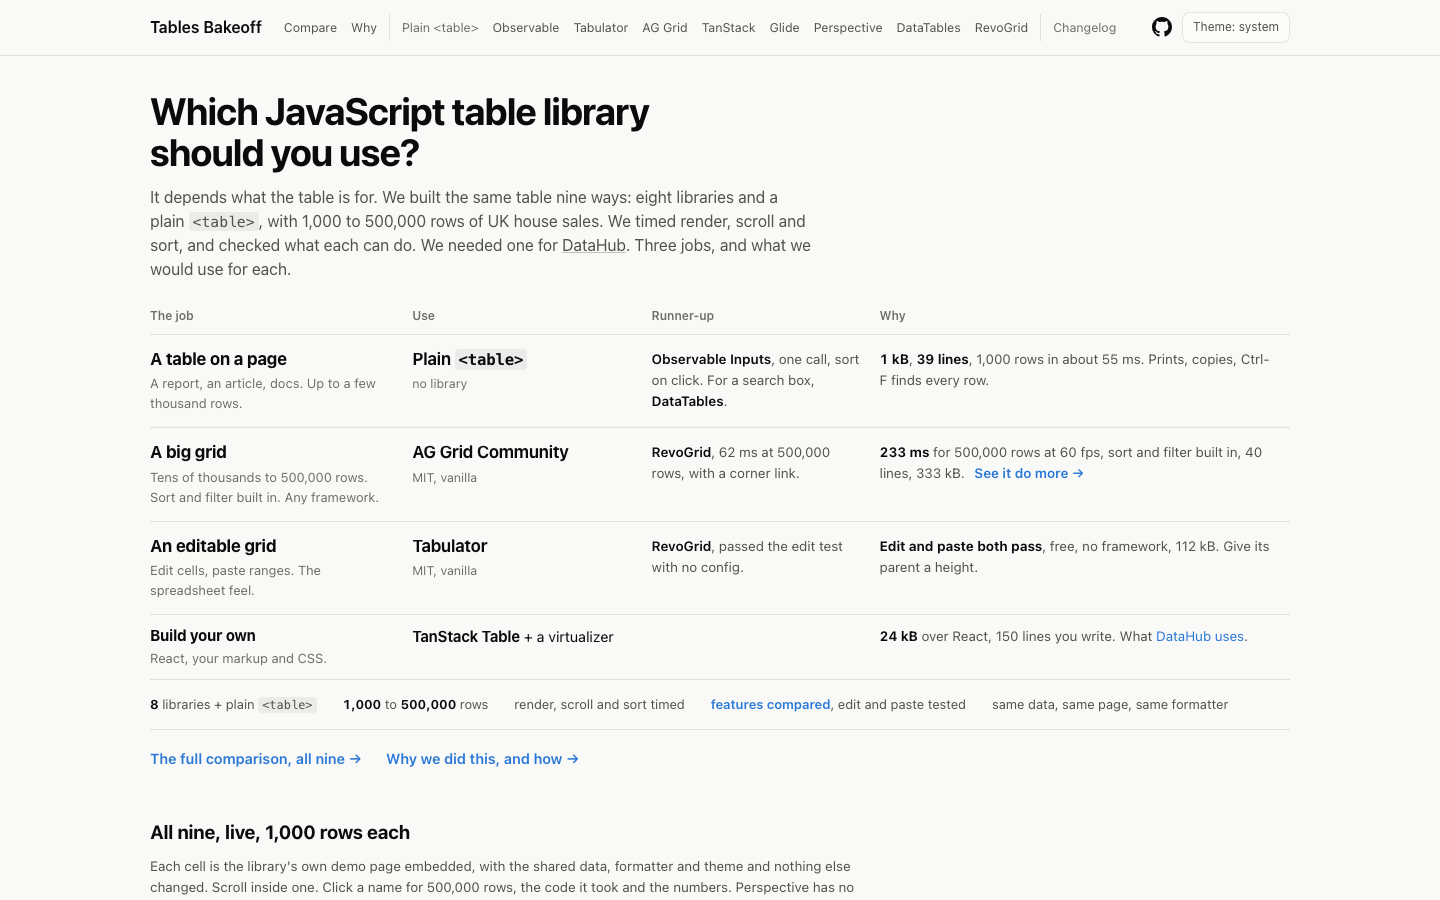
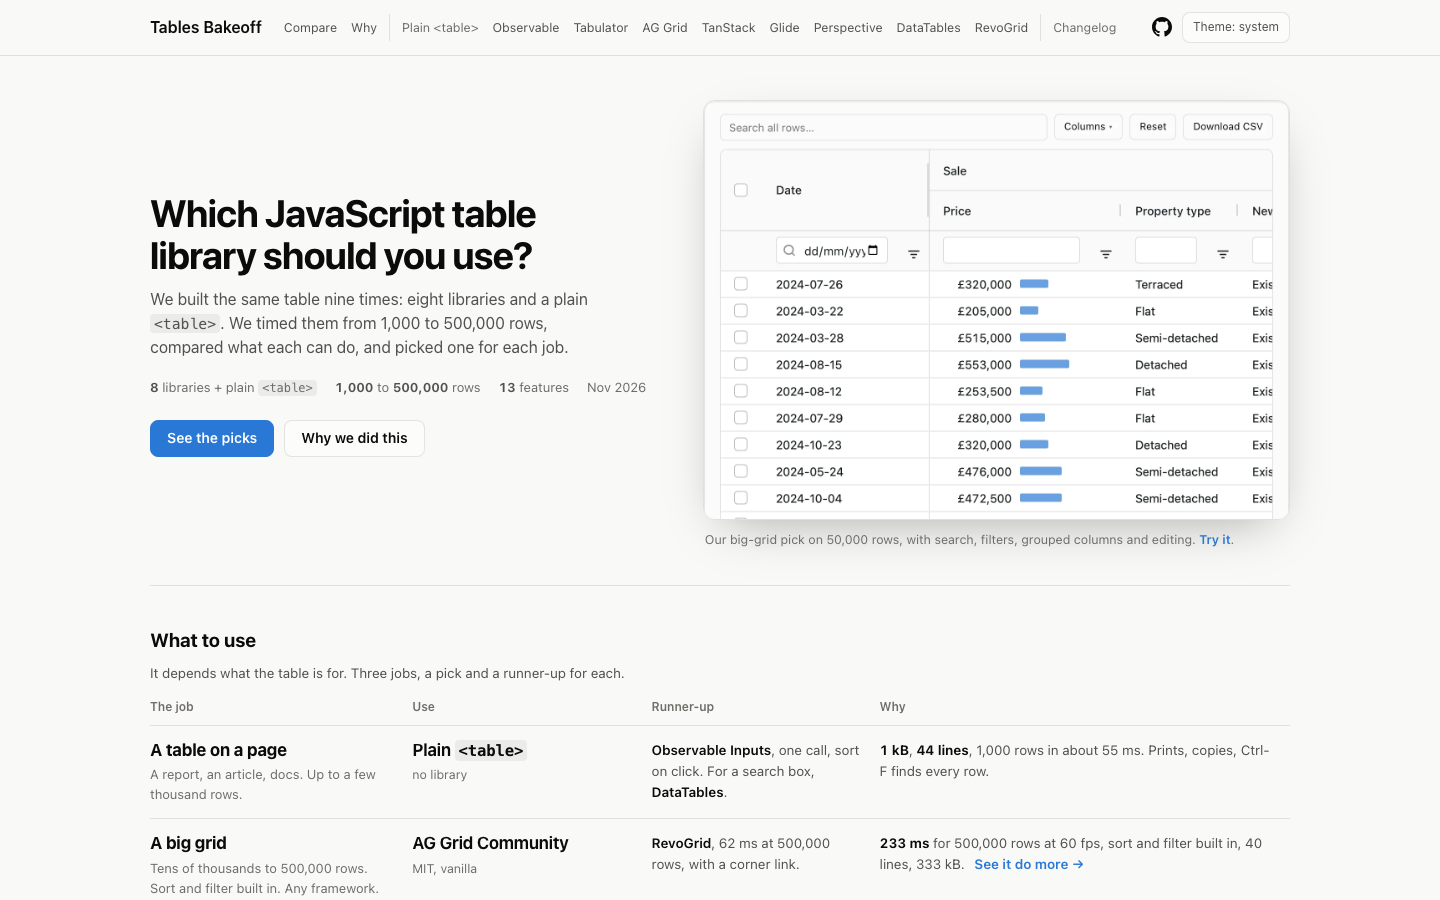
Front page: a hero that says what we did, beside a real grid
The first screen is now the question, two sentences on what we did, a
facts line, two buttons (See the picks, Why we did this) and a cropped
capture of the AG Grid showcase, light and dark, stacked on a phone. The
verdict table, facts strip and links move under a What to use heading
right after it. Nothing else on the page moves.

scripts/hero-image.mjs regenerates public/hero/hero-{light,dark}.webp at
2x from a running server (about 50 kB each, encoded by Chromium itself).
The OG card carries the same image on its right; scripts/render-og.mjs
inlines it.

diff --git a/src/harness/pages.css b/src/harness/pages.css
@@ -19,8 +19,38 @@ pre code { background: none; padding: 0; font-size: inherit; }
 .prose strong { color: var(--text-primary); font-weight: 650; }
 .prose h2 { margin-top: 40px; }
 
-/* ---- the verdict table (front page hero) ---------------------------------- */
-table.verdict { width: 100%; border-collapse: collapse; margin: 26px 0 0; font-size: 14.5px; }
+/* ---- the hero: text left, a real grid right ------------------------------- */
+.hero--split { display: grid; grid-template-columns: minmax(0, 11fr) minmax(0, 13fr); gap: 28px 56px; align-items: center; padding: 44px 0 36px; border-bottom: 1px solid var(--border); }
+.hero--split h1 { max-width: 16ch; }
+.hero--split .lede { max-width: 46ch; }
+.hero__facts { display: flex; flex-wrap: wrap; gap: 4px 18px; margin: 18px 0 0; font-size: 13px; color: var(--text-muted); }
+.hero__facts b { color: var(--text-secondary); font-weight: 650; font-variant-numeric: tabular-nums; }
+.hero__facts code { font-size: 12px; }
+.hero__links { display: flex; flex-wrap: wrap; gap: 10px; margin: 22px 0 0; }
+.btn { display: inline-block; padding: 9px 16px; border-radius: 8px; border: 1px solid var(--border); background: var(--surface); color: var(--text-primary); font-size: 14px; font-weight: 600; line-height: 1.2; }
+.btn:hover { text-decoration: none; border-color: var(--baseline); }
+.btn--primary { background: var(--accent); border-color: var(--accent); color: #fff; }
+.btn--primary:hover { filter: brightness(0.94); }
+.hero__figure { margin: 0; min-width: 0; }
+.hero__img { display: block; width: 100%; height: auto; border: 1px solid var(--border); border-radius: 12px; box-shadow: 0 18px 50px -20px rgba(0, 0, 0, 0.35); }
+.hero__img--dark { display: none; }
+@media (prefers-color-scheme: dark) {
+  :root:not([data-theme="light"]) .hero__img--light { display: none; }
+  :root:not([data-theme="light"]) .hero__img--dark { display: block; }
+}
+:root[data-theme="dark"] .hero__img--light { display: none; }
+:root[data-theme="dark"] .hero__img--dark { display: block; }
+.hero__figure figcaption { margin: 10px 2px 0; font-size: 12.5px; color: var(--text-muted); }
+.hero__figure figcaption a { font-weight: 600; }
+@media (max-width: 900px) {
+  .hero--split { grid-template-columns: minmax(0, 1fr); gap: 26px; padding: 28px 0 28px; }
+  .hero--split h1 { max-width: 20ch; }
+}
+.picks-head { margin-top: 40px; }
+.picks-head + .caption { margin-bottom: 0; }
+
+/* ---- the verdict table ------------------------------------------------------ */
+table.verdict { width: 100%; border-collapse: collapse; margin: 14px 0 0; font-size: 14.5px; }
 table.verdict th, table.verdict td { text-align: left; vertical-align: top; padding: 14px 18px 14px 0; border-bottom: 1px solid var(--border); }
 table.verdict thead th { font-size: 12px; font-weight: 600; color: var(--text-muted); padding-top: 0; padding-bottom: 8px; }
 table.verdict td.job { width: 23%; }

diff --git a/index.html b/index.html
@@ -51,17 +51,35 @@
 </nav>
 <div class="wrap">
 
-  <header class="hero">
-    <h1>Which JavaScript table library should you use?</h1>
-    <p class="lede">
-      It depends what the table is for. We built the same table nine ways: eight libraries and a
-      plain <code>&lt;table&gt;</code>, with 1,000 to 500,000 rows of UK house sales. We timed render,
-      scroll and sort, and checked what each can do. We needed one for
-      <a href="https://datahub.io" target="_blank" rel="noopener">DataHub</a>. Three jobs, and what we
-      would use for each.
-    </p>
+  <header class="hero hero--split">
+    <div class="hero__text">
+      <h1>Which JavaScript table library should you use?</h1>
+      <p class="lede">
+        We built the same table nine times: eight libraries and a plain <code>&lt;table&gt;</code>. We timed
+        them from 1,000 to 500,000 rows, compared what each can do, and picked one for each job.
+      </p>
+      <p class="hero__facts">
+        <span><b data-library-count-digit>8</b> libraries + plain <code>&lt;table&gt;</code></span>
+        <span><b>1,000</b> to <b>500,000</b> rows</span>
+        <span><b>13</b> features</span>
+        <span>Nov 2026</span>
+      </p>
+      <p class="hero__links">
+        <a class="btn btn--primary" href="#picks">See the picks</a>
+        <a class="btn" href="/why.html">Why we did this</a>
+      </p>
+    </div>
+    <figure class="hero__figure">
+      <img class="hero__img hero__img--light" src="/hero/hero-light.webp" width="1400" height="1000" fetchpriority="high"
+           alt="AG Grid Community showing UK house sales: a search box, column filters, grouped Sale and Address columns, row checkboxes and a bar beside each price">
+      <img class="hero__img hero__img--dark" src="/hero/hero-dark.webp" width="1400" height="1000" loading="lazy"
+           alt="AG Grid Community showing UK house sales in dark mode: a search box, column filters, grouped Sale and Address columns, row checkboxes and a bar beside each price">
+      <figcaption>Our big-grid pick on 50,000 rows, with search, filters, grouped columns and editing. <a href="/demos/showcase.html">Try it</a>.</figcaption>
+    </figure>
   </header>
 
+  <h2 id="picks" class="picks-head">What to use</h2>
+  <p class="caption">It depends what the table is for. Three jobs, a pick and a runner-up for each.</p>
   <table class="verdict" aria-label="Picks by job">
     <thead><tr><th>The job</th><th>Use</th><th>Runner-up</th><th>Why</th></tr></thead>
     <tbody>

diff --git a/scripts/og-card.html b/scripts/og-card.html
@@ -2,19 +2,25 @@
 <html data-theme="light"><head><meta charset="utf-8">
 <style>/*SITE_CSS*/
 html, body { width: 1200px; height: 630px; margin: 0; overflow: hidden; }
-.card { width: 1200px; height: 630px; border-radius: 0; border: 0; padding: 72px 80px; display: flex; flex-direction: column; justify-content: space-between; background: var(--bg); }
+.card { width: 1200px; height: 630px; border-radius: 0; border: 0; padding: 64px 0 56px 72px; display: grid; grid-template-columns: 560px 1fr; grid-template-rows: auto 1fr auto; column-gap: 48px; background: var(--bg); overflow: hidden; position: relative; }
+.bar { grid-column: 1; }
+.text { grid-column: 1; grid-row: 2; align-self: center; }
+.foot { grid-column: 1; grid-row: 3; }
+.shot { grid-column: 2; grid-row: 1 / 4; align-self: center; width: 760px; margin-top: 24px; border: 1px solid var(--border); border-radius: 14px; overflow: hidden; box-shadow: 0 24px 60px -24px rgba(0,0,0,.45); transform: translateX(12px); }
+.shot img { display: block; width: 100%; height: auto; }
 .bar { display: flex; gap: 10px; }
 .bar i { width: 56px; height: 10px; border-radius: 5px; display: block; }
-h1 { font-size: 78px; line-height: 1.06; letter-spacing: -0.035em; margin: 0; max-width: 980px; }
-p { font-size: 32px; color: var(--text-secondary); margin: 22px 0 0; line-height: 1.3; }
-.foot { font-size: 28px; font-weight: 600; color: var(--text-primary); display: flex; justify-content: space-between; }
+h1 { font-size: 58px; line-height: 1.06; letter-spacing: -0.03em; margin: 0; }
+p { font-size: 26px; color: var(--text-secondary); margin: 20px 0 0; line-height: 1.3; max-width: 540px; }
+.foot { font-size: 24px; font-weight: 600; color: var(--text-primary); display: flex; justify-content: space-between; }
 .foot span { color: var(--text-muted); font-weight: 500; }
 </style></head>
 <body><div class="card">
   <div class="bar"><i style="background:var(--series-1)"></i><i style="background:var(--series-2)"></i><i style="background:var(--series-3)"></i><i style="background:var(--series-4)"></i><i style="background:var(--series-5)"></i></div>
-  <div>
+  <div class="text">
     <h1>Which JavaScript table library should you use?</h1>
-    <p>Same table, same 500,000 rows, nine builds</p>
+    <p>The same table nine times, 1,000 to 500,000 rows, and a pick for each job</p>
   </div>
   <div class="foot">Tables Bakeoff <span>tables.datahub.io</span></div>
+  <div class="shot"><img src="/*HERO_IMG*/" alt=""></div>
 </div></body></html>

diff --git a/tests/e2e/demo.spec.js b/tests/e2e/demo.spec.js
@@ -238,6 +238,27 @@ test.describe("baseline 500,000 rows", () => {
 });
 
 test.describe("landing v2", () => {
+  test("the front page opens with a hero: what we did, two links and a real grid", async ({ page }) => {
+    await page.goto("/index.html");
+    await expect(page.locator(".hero h1")).toContainText("table library");
+    await expect(page.locator('.hero__links a[href="#picks"]')).toBeVisible();
+    await expect(page.locator('.hero__links a[href="/why.html"]')).toBeVisible();
+    await expect(page.locator("#picks")).toBeAttached();
+    // The hero image is a real file in both themes, with alt text.
+    for (const theme of ["light", "dark"]) {
+      const img = page.locator(`.hero__img--${theme}`);
+      await expect(img).toHaveAttribute("alt", /AG Grid/);
+      const res = await page.request.get(`/hero/hero-${theme}.webp`);
+      expect(res.ok(), `hero-${theme}.webp`).toBe(true);
+    }
+    // Only one of the two is shown, and the site's own toggle switches it.
+    await expect(page.locator(".hero__img--light")).toBeVisible();
+    await expect(page.locator(".hero__img--dark")).toBeHidden();
+    await page.evaluate(() => document.documentElement.setAttribute("data-theme", "dark"));
+    await expect(page.locator(".hero__img--dark")).toBeVisible();
+    await expect(page.locator(".hero__img--light")).toBeHidden();
+  });
+
   test("the front page names a pick and a runner-up for each job", async ({ page }) => {
     await page.goto("/index.html");
     const rows = page.locator("table.verdict tbody tr");

diff --git a/changelog/2026-11-21-picks-by-job.md b/changelog/2026-11-21-picks-by-job.md
@@ -4,9 +4,9 @@ title: Three jobs, a pick and a runner-up for each
 promote: true
 ---
 
-The [front page](https://tables.datahub.io/) now opens with a table: the job you have, what to use, the runner-up, and why in one line. A table on a page gets a plain `<table>`. A big grid gets AG Grid Community. An editable grid gets Tabulator. If you want to build your own in React, TanStack Table, which is what DataHub uses. Under it, every library live at 1,000 rows, a short version of the numbers, what each can do, and copy-and-paste starter code for each pick.
+The [front page](https://tables.datahub.io/) now opens with what we did, in two sentences, beside a real grid, and then a table: the job you have, what to use, the runner-up, and why in one line. A table on a page gets a plain `<table>`. A big grid gets AG Grid Community. An editable grid gets Tabulator. If you want to build your own in React, TanStack Table, which is what DataHub uses. Under it, every library live at 1,000 rows, a short version of the numbers, what each can do, and copy-and-paste starter code for each pick.
 
-![The front page: a table of jobs, picks, runners-up and why](/changelog/2026-11-21-picks-by-job.png)
+![The front page: what we did, a real grid, and the table of jobs and picks](/changelog/2026-11-21-picks-by-job.png)
 
 - **A feature table.** Thirteen features across all nine, from sort to paste to keyboard, each marked built in, needs config, paid tier or you write it, read from the docs and from our own tests.
 - **Starter code.** The install line and the shortest code that renders a sortable table, for every library, each one loaded and checked.
